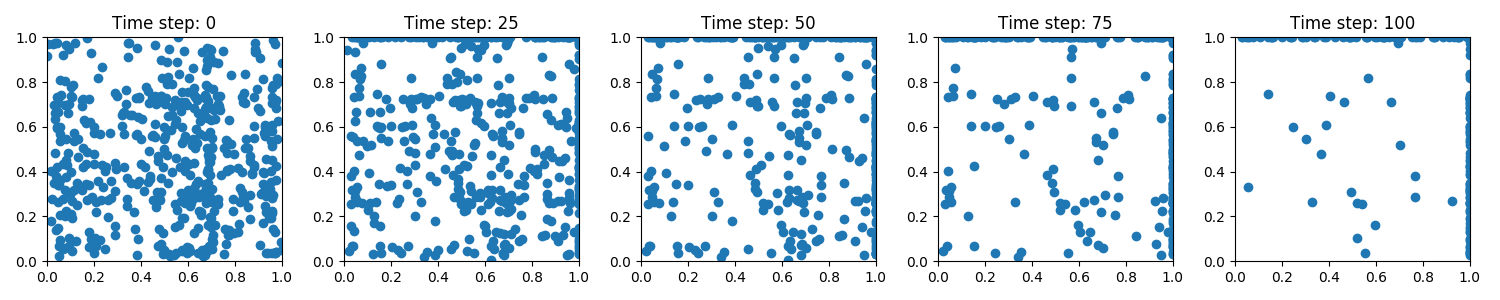
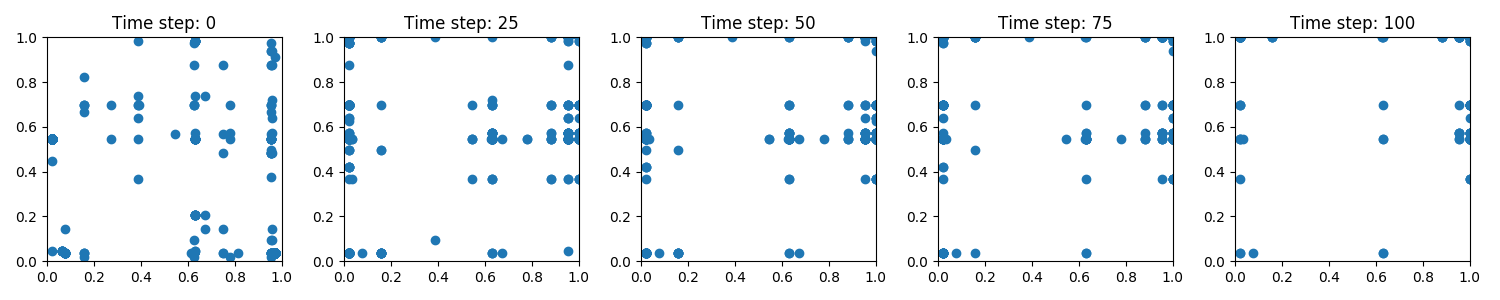
Change to softmax sampling instead of Gumbel-softmax

diff --git a/main.py b/main.py
@@ -13,9 +13,9 @@ import utils
 device = torch.device("cuda" if torch.cuda.is_available() else "cpu")
 
 
-class NoisySwissRollDataset(data.Dataset):
+class SwissRollDataset(data.Dataset):
     def __init__(self, betas, n_schedule_steps, n_states):
-        self.n_samples = 500_000
+        self.n_samples = 1_000_000
         self.betas = betas
         self.n_schedule_steps = n_schedule_steps
         self.n_states = n_states
@@ -68,20 +68,19 @@ class DiffusionModel(nn.Module):
 class SwissRollDiffusion():
     def __init__(self):
         self.n_schedule_steps = 100  # number of steps for the diffusion process
-        self.n_epochs = 1  # number of epochs for training
+        self.n_epochs = 2  # number of epochs for training
         self.n_states = 256  # number of states for the swiss roll data
         self.n_features = 2  # number of features (e.g. x and y coordinate)
         self.absorbing_idx = self.n_states  # index of the absorbing state
         self.betas = utils.get_diffusion_betas({'type': 'jsd', 'num_timesteps': self.n_schedule_steps})
         self.eps = 1e-6  # small value to avoid division by zero
-        self.noisy_dataset = NoisySwissRollDataset(self.betas, self.n_schedule_steps, self.n_states)
-        self.dataset_loader = torch.utils.data.DataLoader(self.noisy_dataset, batch_size=128, shuffle=True)
+        self.noisy_dataset = SwissRollDataset(self.betas, self.n_schedule_steps, self.n_states)
+        self.dataset_loader = torch.utils.data.DataLoader(self.noisy_dataset, batch_size=512, shuffle=True)
 
         # Initialize the one-step and cumulative transition matrices
         self.q_one_step_mats = self.init_transition_matrices()
         self.q_cum_mats = self.init_cum_transition_matrices()
         self.model = DiffusionModel(self.n_features, self.n_states, self.n_schedule_steps).to(device)
-
 
     def train(self):
         optimizer = optim.Adam(self.model.parameters(), lr=1e-3)
@@ -186,36 +185,41 @@ class SwissRollDiffusion():
         Returns:
             logits: Tensor of shape (batch_size, n_states + 1) representing the logits of the posterior distribution.
         """
+        # if x_start_logits:
+        #     assert x_start.shape == x_t.shape + (self.n_states + 1,)
+        #     # x_start is logits, convert to probabilities for computation
+        #     x_start_probs = F.softmax(x_start, dim=-1)  # (B, D + 1), D = n_states
+        #     # self.q_cum_mats[t-1]  (D + 1, D + 1)
+        #     # x @ Q = (Q @ x^T)^T  (D + 1, B) ^ T = (B, D + 1)
+        #     # fact2 = torch.matmul(self.q_cum_mats[t-1], x_start_probs.transpose(0, 1)).transpose(0, 1)
+        #     fact2 = torch.matmul(x_start_probs, self.q_cum_mats[t-1])
+        #     tzero_logits = x_start  # Directly use logits if x_start is logits
+        # else:
+        #     assert x_start.shape == x_t.shape, f"Shapes do not match: {x_start.shape}, {x_t.shape}"
+        #     # x_start is indices, convert to one-hot for computation
+        #     x_start_one_hot = F.one_hot(x_start, num_classes=self.n_states + 1)  # (B, D + 1)
+        #     # fact2 = torch.matmul(self.q_cum_mats[t-1], x_start_one_hot.float().transpose(0, 1)).transpose(0, 1)
+        #     fact2 = torch.matmul(x_start_one_hot.float(), self.q_cum_mats[t-1])  # (128, 2, 257) @ (128, 257, 257) = (128, 2, 257)
+        #     tzero_logits = torch.log(x_start_one_hot.float() + self.eps)  # Convert one-hot to log probabilities
+
         if x_start_logits:
             assert x_start.shape == x_t.shape + (self.n_states + 1,)
-            # x_start is logits, convert to probabilities for computation
-            x_start_probs = F.softmax(x_start, dim=-1)  # (B, D + 1), D = n_states
-            # self.q_cum_mats[t-1]  (D + 1, D + 1)
-            # x @ Q = (Q @ x^T)^T  (D + 1, B) ^ T = (B, D + 1)
-            # fact2 = torch.matmul(self.q_cum_mats[t-1], x_start_probs.transpose(0, 1)).transpose(0, 1)
-            fact2 = torch.matmul(x_start_probs, self.q_cum_mats[t-1])
-            tzero_logits = x_start  # Directly use logits if x_start is logits
+            fact2 = self._at_onehot(self.q_cum_mats, t-1, F.softmax(x_start, dim=-1))
+            tzero_logits = x_start
         else:
             assert x_start.shape == x_t.shape, f"Shapes do not match: {x_start.shape}, {x_t.shape}"
-            # x_start is indices, convert to one-hot for computation
-            x_start_one_hot = F.one_hot(x_start, num_classes=self.n_states + 1)  # (B, D + 1)
-            # fact2 = torch.matmul(self.q_cum_mats[t-1], x_start_one_hot.float().transpose(0, 1)).transpose(0, 1)
-            fact2 = torch.matmul(x_start_one_hot.float(), self.q_cum_mats[t-1])  # (128, 2, 257) @ (128, 257, 257) = (128, 2, 257)
-            tzero_logits = torch.log(x_start_one_hot.float() + self.eps)  # Convert one-hot to log probabilities
+            # print(f"Shapes: x_start={x_start.shape}, x_t={x_t.shape}")
+            fact2 = self._at(self.q_cum_mats, t-1, x_start)
+            tzero_logits = torch.log(F.one_hot(x_start, num_classes=self.n_states + 1) + self.eps)
 
-        # Extract probabilities for x_t from transpose of one-step matrices
-        # q_one_step_mats (T, D, D)
-        # q_one_step_mats[t] (D, D)
-        # x_t (B, D) where D is n_states + 1
-        # fact1 is complicated because we are conditioning on x_
-        # Use advanced indexing to pull out the timestep t and 
-        # fact1 = self.q_one_step_mats.transpose(0, 2, 1)[t, x_t]  # (B, D + 1)
         fact1 = self._at(torch.transpose(self.q_one_step_mats, 2, 1), t, x_t)  # (B, F, D + 1)
-
-        print(f"fact1: {fact1[0][0][:]}")
-        print(f"fact2: {fact2[0][0][:]}")
-
         out = torch.log(fact1 + self.eps) + torch.log(fact2 + self.eps)
+
+        # print(f"x_start_logits: {x_start_logits}")
+        # print(f"fact1: {fact1[0][0][:]}")
+        # print(f"fact2: {fact2[0][0][:]}")
+        # print(f"out: {out[0][0][:]}")
+
         t_broadcast = t.unsqueeze(1).unsqueeze(2).expand(-1, *out.shape[1:])
         return torch.where(t_broadcast == 0, tzero_logits, out)
 
@@ -282,7 +286,22 @@ class SwissRollDiffusion():
         t_broadcast = t.unsqueeze(1).expand(-1, *x.shape[1:])
         return a[t_broadcast, x]
 
-    def p_sample(self, x, t):
+    def _at_onehot(self, a, t, x):
+        """Extract coefficients at specified timesteps t and conditioning data x.
+
+        Args:
+        a: np.ndarray: plain NumPy float64 array of constants indexed by time.
+        t: jnp.ndarray: Jax array of time indices, shape = (bs,).
+        x: jnp.ndarray: jax array, shape (bs, ..., num_pixel_vals), float32 type.
+            (Noisy) data. Should be of one-hot-type representation.
+
+        Returns:
+        out: jnp.ndarray: Jax array. output of dot(x, a[t], axis=[[-1], [1]]).
+            shape = (bs, ..., num_pixel_vals)
+        """
+        return torch.matmul(x, a[t])
+
+    def p_sample(self, x, t, tau=0.1, tau_nonzero=1.0):
         """Sample one timestep from the model p(x_{t-1} | x_t) using PyTorch."""
         # Compute the logits for the current state x at time t
         pred_logits = self.p_logits(x, t)  # Assuming p_logits returns logits of shape (batch_size, num_features, num_states + 1)
@@ -293,13 +312,17 @@ class SwissRollDiffusion():
         # create a mask to handle the no-noise condition when t == 0
         nonzero_mask = (t > 0).float().unsqueeze(-1).unsqueeze(-1)  # reshape to (batch_size, 1, 1) for broadcasting
 
-        # use the straight-through gumbel-softmax estimator for sampling
-        gumbel_noise = -torch.log(-torch.log(torch.rand_like(pred_logits)))  # gumbel noise
+        # Apply softmax with a low temperature for t=0, and a higher temperature for t>0
+        temperatures = torch.full_like(t, tau_nonzero, dtype=torch.float32).unsqueeze(-1).unsqueeze(-1)
+        temperatures[nonzero_mask == 0] = tau  # Set a lower temperature for t=0
 
-        # for t == 0, use argmax; otherwise, apply gumbel noise
-        # sampled_logits = torch.where(nonzero_mask.expand_as(pred_logits) > 0, pred_logits + gumbel_noise, pred_logits)
-        sampled_logits = torch.where(nonzero_mask.expand_as(pred_logits) > 0, pred_logits + gumbel_noise, pred_logits + gumbel_noise)
-        sample = torch.argmax(sampled_logits, dim=-1)
+        # Calculate the softmax over the logits, scaled by the temperature
+        # pred_logits / temperatures adjusts logits according to the temperature
+        probs = F.softmax(pred_logits / temperatures, dim=-1)
+
+        # Sample from the categorical distribution based on the computed probabilities
+        # torch.multinomial to sample from the categorical distribution described by probs
+        sample = torch.multinomial(probs.view(-1, probs.shape[-1]), 1).view(probs.shape[:-1])
 
         return sample
 
